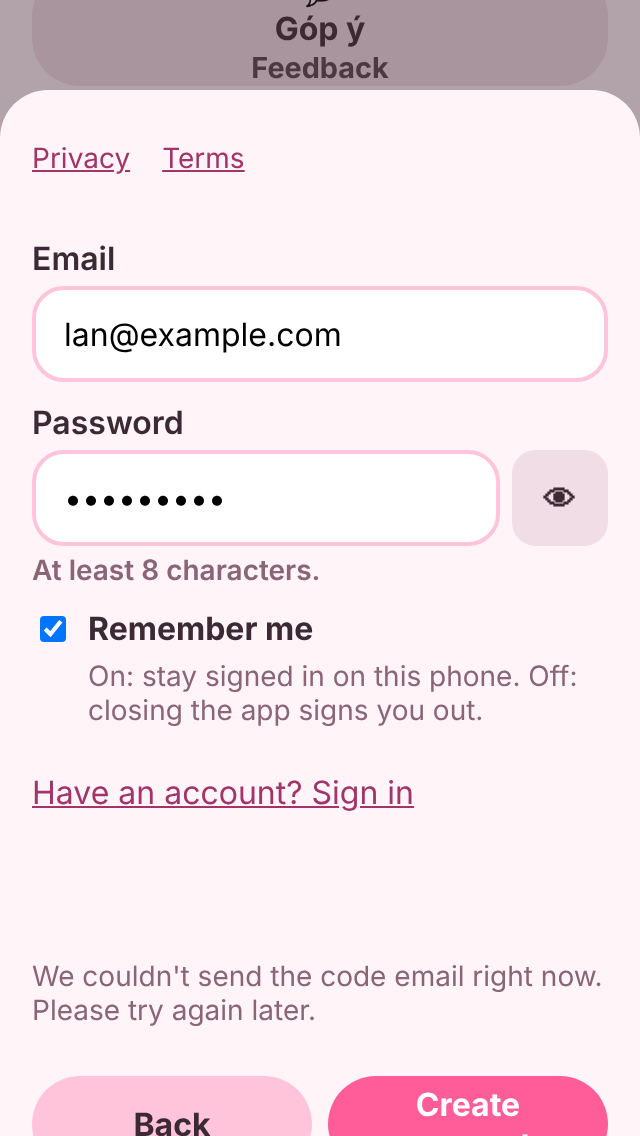
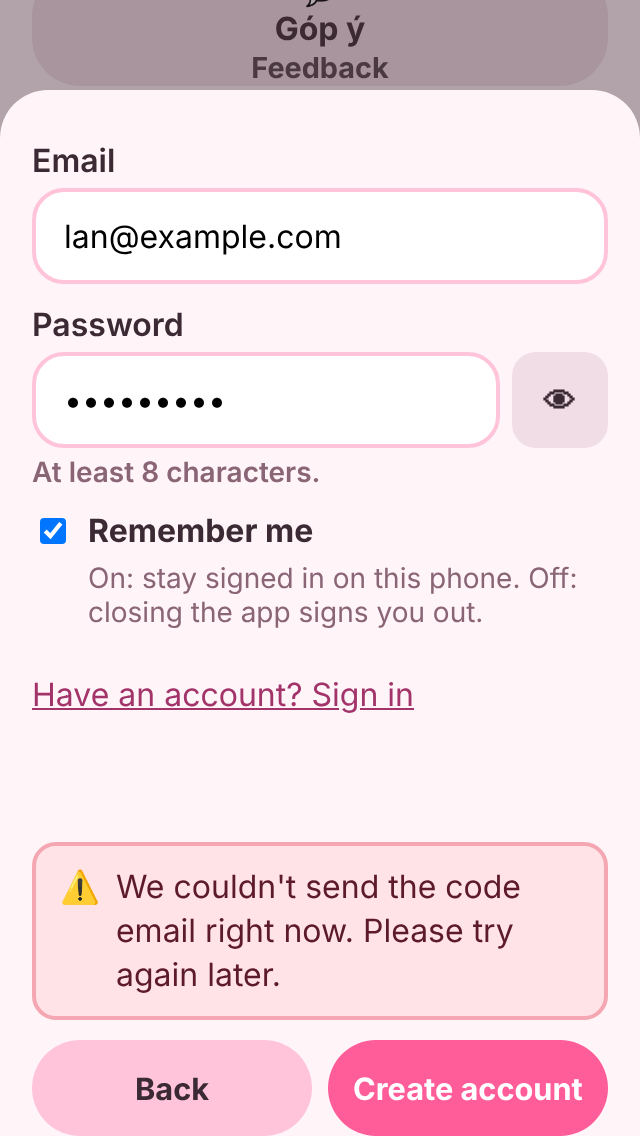
053 fix: account messages as a clear box above the buttons; buttons fit one line in vi
- Errors and notes in the sign-in, sign-up, confirm and forgot-password sheets now show right above the
  buttons as a box: soft red with ⚠ for errors, soft green with ✉ for a new code; 16 px; role="alert".
- The action buttons keep their words on one line at 320 px (Tạo tài khoản, Lưu và đăng nhập); checked in
  every account state, en and vi.
- Re-shot 053 evidence (en + vi): the email-could-not-be-sent box, already registered, and a sign-in error.

OWNER: no action needed.

npm test:    Test Files  44 passed (44) / Tests  445 passed (445)
npm run e2e: 60 passed (2.3m)

Claude-Session: https://claude.ai/code/session_01Fx5cxFjSfz8L37QZFocT7H

diff --git a/src/game/ui/account-panel.ts b/src/game/ui/account-panel.ts
@@ -157,6 +157,8 @@ export function openSignInSheet(host: HTMLElement, account: Account, options: { 
       b.disabled = true;
       const result = await send();
       status.textContent = result.ok ? t('account.codeResent') : errorText(result.error);
+      // 053 fix: a sent code is good news (a green box); anything else is an error (a red box).
+      status.dataset.kind = result.ok ? 'info' : 'error';
       left = ACCOUNT_CONFIG.resendSeconds;
       window.clearInterval(timer);
       tick();
@@ -184,6 +186,7 @@ export function openSignInSheet(host: HTMLElement, account: Account, options: { 
   const busy = async <T>(main: HTMLButtonElement, status: HTMLElement, run: () => Promise<CloudResult<T>>, ok: (value: T) => void, onError?: (error: CloudError) => boolean): Promise<void> => {
     main.disabled = true;
     status.textContent = '';
+    status.dataset.kind = 'error';
     let result: CloudResult<T>;
     try {
       result = await run();
@@ -199,7 +202,9 @@ export function openSignInSheet(host: HTMLElement, account: Account, options: { 
     window.clearInterval(timer);
     const title = el('h2', '', t(`account.${mode}Title` as StringKey));
     title.id = 'account-title';
-    const status = el('p', 'setting-note feedback-status');
+    // 053 fix: errors and notes show as a clear box right above the buttons (16 px, an icon), announced as an alert.
+    const status = el('p', 'feedback-status account-status');
+    status.dataset.kind = 'error';
     status.setAttribute('role', 'alert');
     const cancel = button(t('common.back'));
     cancel.addEventListener('click', close);

diff --git a/src/game/ui/account.css b/src/game/ui/account.css
@@ -19,3 +19,12 @@ html[data-contrast='high'] .account-link { color: #6b0f3c; }
 /* Story 028: the Tết lì xì card (red envelope colours). */
 .season-gift { background: #fff1ec; border: 2px solid #d1141f; }
 .season-gift > strong { color: #b3101a; }
+
+/* 053 fix (overseer): the status as a clear box above the buttons: soft red with ⚠ for errors, soft green with ✉
+   for good news; 16 px. The action buttons keep their words on one line at 320 px (Tạo tài khoản). */
+.account-sheet .account-status:empty { display: none; }
+.account-sheet .account-status { display: flex; gap: 8px; align-items: flex-start; margin: 4px 0 0; padding: 10px 12px; border-radius: 12px; font-size: 16px; line-height: 1.35; color: #5c1a2b; background: #ffe3e6; border: 2px solid #f4a7b2; }
+.account-sheet .account-status::before { content: '⚠'; flex: none; }
+.account-sheet .account-status[data-kind='info'] { color: #1f4d33; background: #e3f6ea; border-color: #9ed6b2; }
+.account-sheet .account-status[data-kind='info']::before { content: '✉'; }
+.account-sheet .feedback-actions .chat-button { white-space: nowrap; padding-inline: 8px; font-size: clamp(15px, 4.8vw, 18px); }
